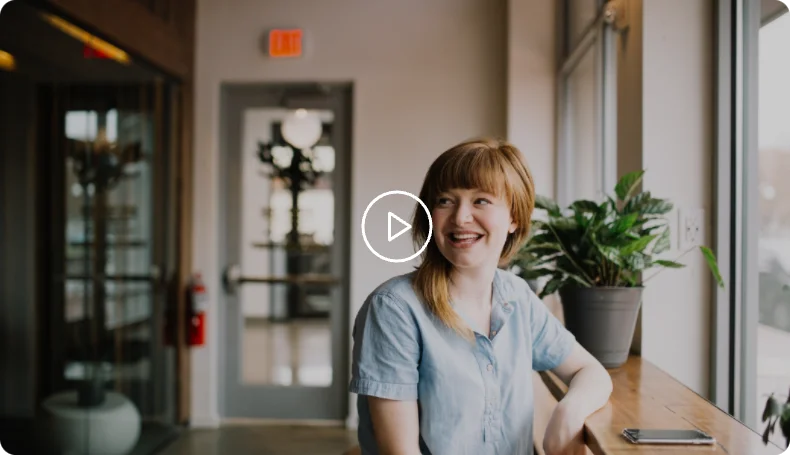
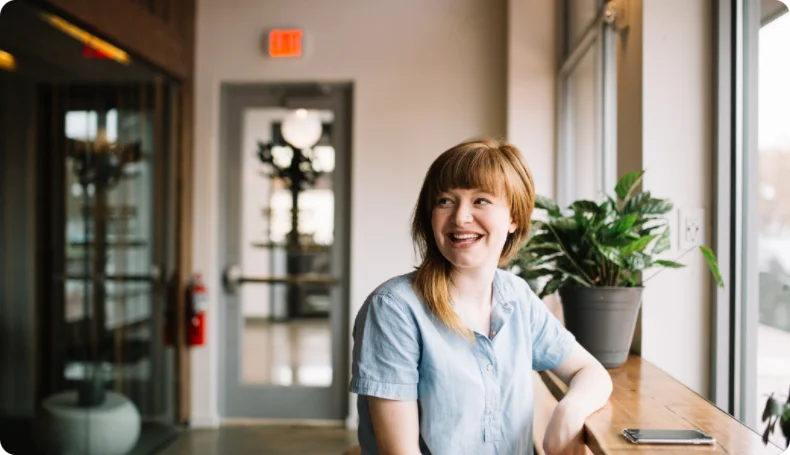
succsess section

diff --git a/styles/succes.css b/styles/succes.css
@@ -1,0 +1,110 @@
+.succes {
+  background-color: var(--co-dark-green);
+  padding: 220px 0 247px;
+}
+
+.succes__wrapper {
+  display: flex;
+  justify-content: space-between;
+  align-items: start;
+  flex-wrap: wrap-reverse;
+  column-gap: 40px;
+}
+
+.succes__content {
+  max-width: 556px;
+  display: flex;
+  flex-direction: column;
+  row-gap: 20px;
+}
+
+.succes__title {
+  margin-top: 50px;
+  color: var(--co-white);
+  font-size: 50px;
+  font-weight: 700;
+  line-height: 157%;
+}
+
+.succes__desc {
+  color: var(--co-white);
+  font-size: 25px;
+  font-weight: 600;
+  line-height: 157%;
+}
+
+.succes__content .btn {
+  width: 240px;
+  height: 65px;
+  margin-top: 50px;
+}
+.succes__content .btn:hover {
+  outline: 2px solid var(--co-white);
+}
+
+.succes__content-video {
+  max-width: 790px;
+  height: 455px;
+  position: relative;
+  border-radius: 16px;
+  overflow: hidden;
+}
+
+.succes__cover {
+  width: 100%;
+  height: 100%;
+  object-fit: cover;
+  aspect-ratio: 158/91;
+}
+
+.success__play-icon {
+  position: absolute;
+  z-index: 2;
+  width: 72px;
+  height: 73px;
+  fill: var(--co-white);
+  top: 50%;
+  left: 51%;
+  translate: -57% -51%;
+}
+
+.success__play-icon:hover {
+  fill: var(--co-green);
+  cursor: pointer;
+}
+
+.succses__gradient {
+  position: absolute;
+  z-index: 1;
+  inset: 0;
+  background: linear-gradient(180deg, rgba(0, 0, 0, 0.1), rgba(0, 0, 0, 0.5))
+    center/cover no-repeat;
+}
+
+@media (max-width: 1370px) {
+  .succes__wrapper {
+    justify-content: center;
+  }
+
+  .succes__content {
+    text-align: center;
+    align-items: center;
+  }
+}
+
+@media (max-width: 576px) {
+  .succes {
+    padding: 150px 0 130px;
+  }
+  .succes__title {
+    font-size: 35px;
+    line-height: 130%;
+  }
+
+  .succes__desc {
+    color: var(--co-white);
+    font-size: 16px;
+    font-weight: 600;
+    line-height: 157%;
+  }
+}

diff --git a/index.html b/index.html
@@ -117,6 +117,32 @@
           </div>
         </div>
       </section>
+      <section class="succes" aria-label="succes section">
+        <div class="conteiner">
+          <div class="succes__wrapper">
+            <div class="succes__content">
+              <h2 class="succes__title">
+                Let's hear about Kayla's success story
+              </h2>
+              <p class="succes__desc" aria-label="succes description">
+                See how well Alivio works in a real customer's life.
+              </p>
+              <button type="button" class="btn">Let's get started</button>
+            </div>
+            <div class="succes__content-video">
+              <img
+                class="succes__cover"
+                src="assets/webp/video-cover.webp"
+                alt="video cover img"
+              />
+              <svg class="success__play-icon" aria-label="play icon">
+                <use href="assets/sprites.svg#play-icon"></use>
+              </svg>
+              <div class="succses__gradient"></div>
+            </div>
+          </div>
+        </div>
+      </section>
     </main>
   </body>
 </html>

diff --git a/index.css b/index.css
@@ -5,3 +5,4 @@
 @import url("styles/hero.css");
 @import url("styles/about.css");
 @import url("styles/card.css");
+@import url("styles/succes.css");

diff --git a/styles/basic.css b/styles/basic.css
@@ -54,7 +54,6 @@ a {
   font-size: 20px;
   font-weight: 400;
   line-height: 25px;
-  letter-spacing: 0;
 }
 
 .btn:hover,
